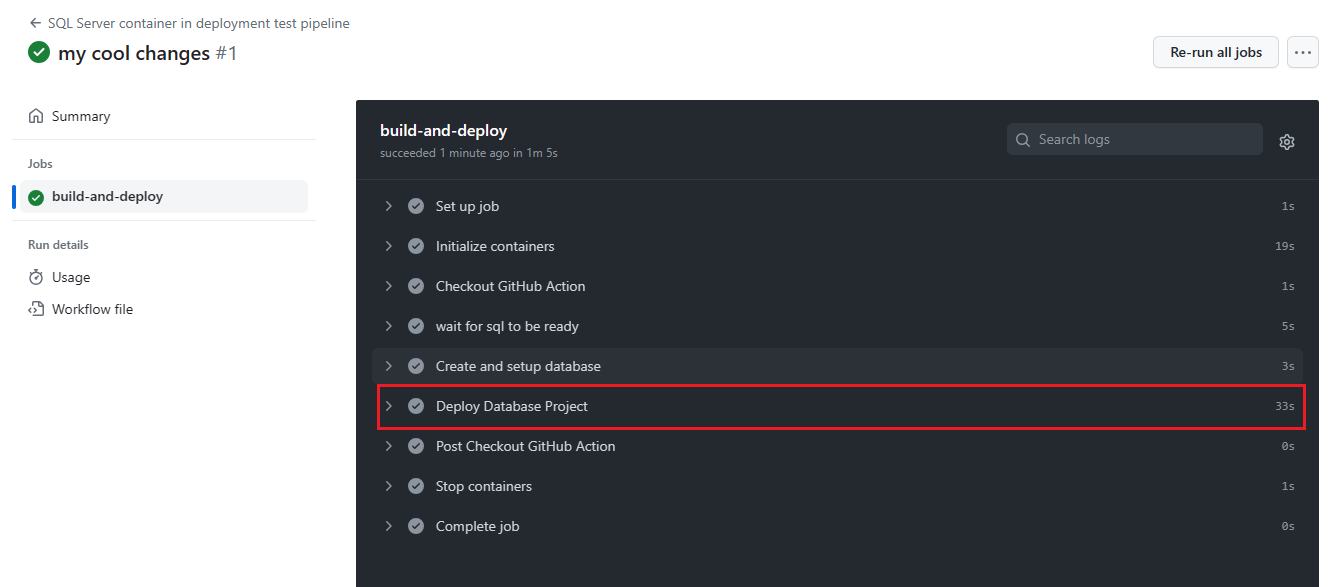
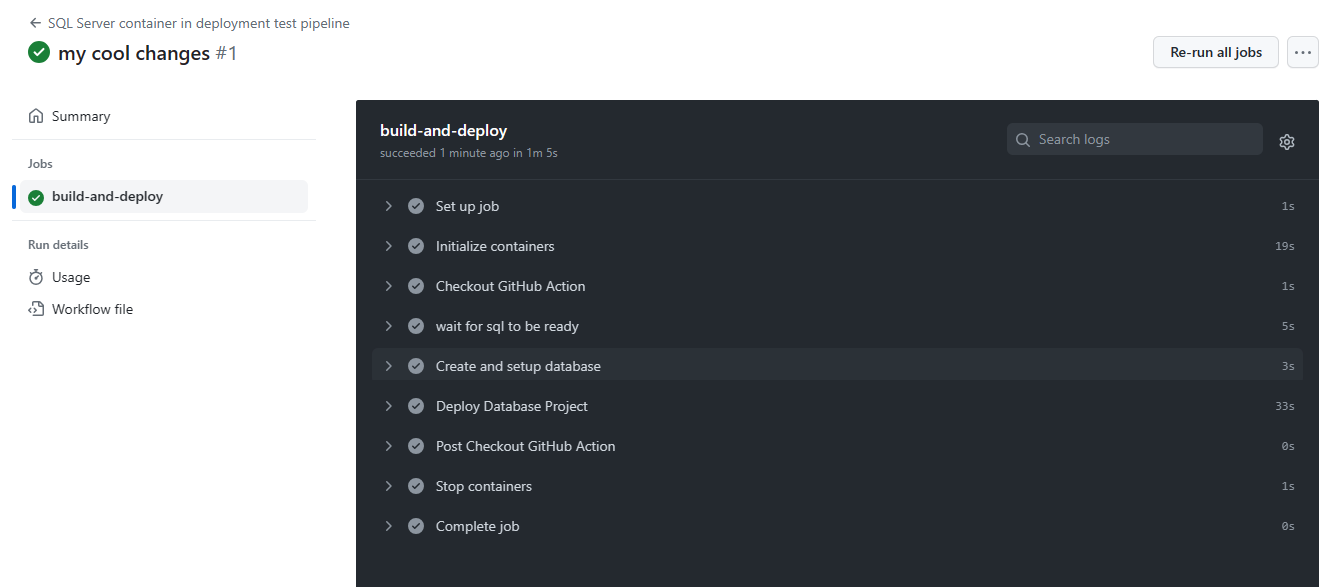
v1.5

Changed region(s): [[0.2752, 0.7053, 0.9784, 0.7359], [0.2752, 0.644, 0.9784, 0.6746]]

diff --git a/docs/8-github-actions.md b/docs/8-github-actions.md
@@ -146,6 +146,10 @@ https://github.com/Azure/sql-action
 
     ![A picture of each step of the workflow and see the progress](./media/ch8/act6.png)
 
-1. Once the workflow is done, you can expand the Deploy Database Project section and see the output and the successful deployment of the database objects to the test SQL Server 2022 in a docker container for this GitHub Workflow.
+1. Once the workflow is done, you can expand the Deploy Database Project section
 
-    ![A picture of the database deployment in github actions to the SQL Server in docker in codespaces](./media/ch8/act7.png)
+    ![A picture of expanding the Deploy Database Project section](./media/ch8/act7.png)
+
+    and see the output and the successful deployment of the database objects to the test SQL Server 2022 in a docker container for this GitHub Workflow.
+
+    ![A picture of the database deployment in github actions to the SQL Server in docker in codespaces](./media/ch8/act8.png)
